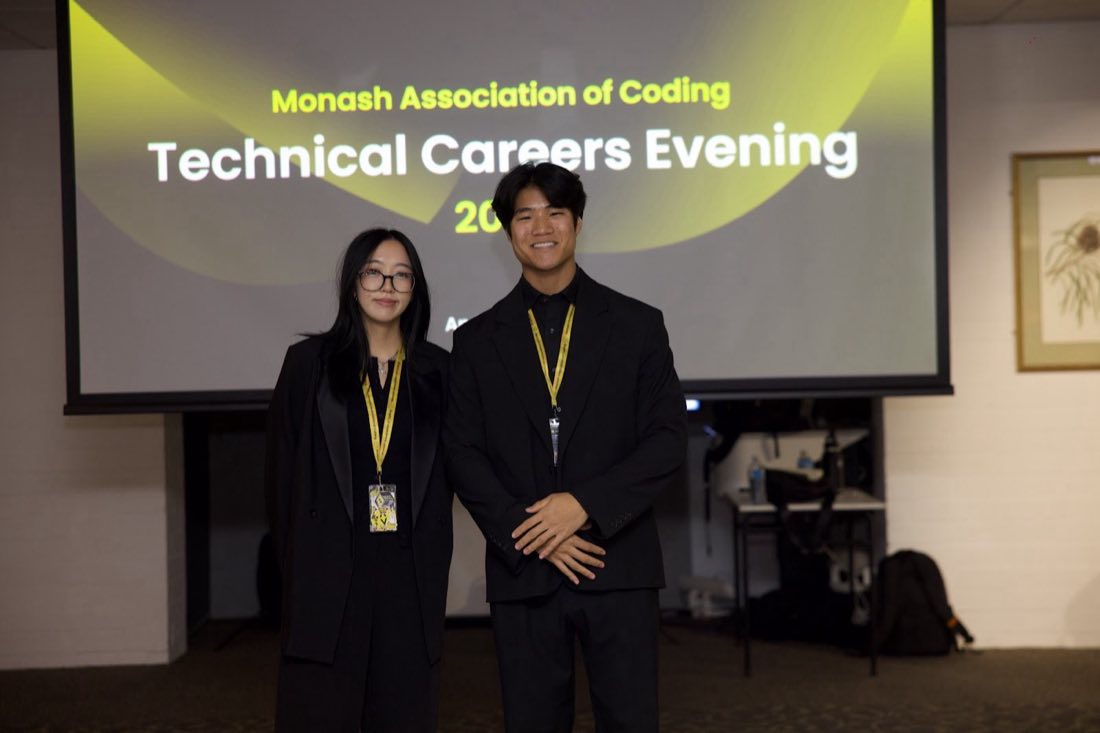
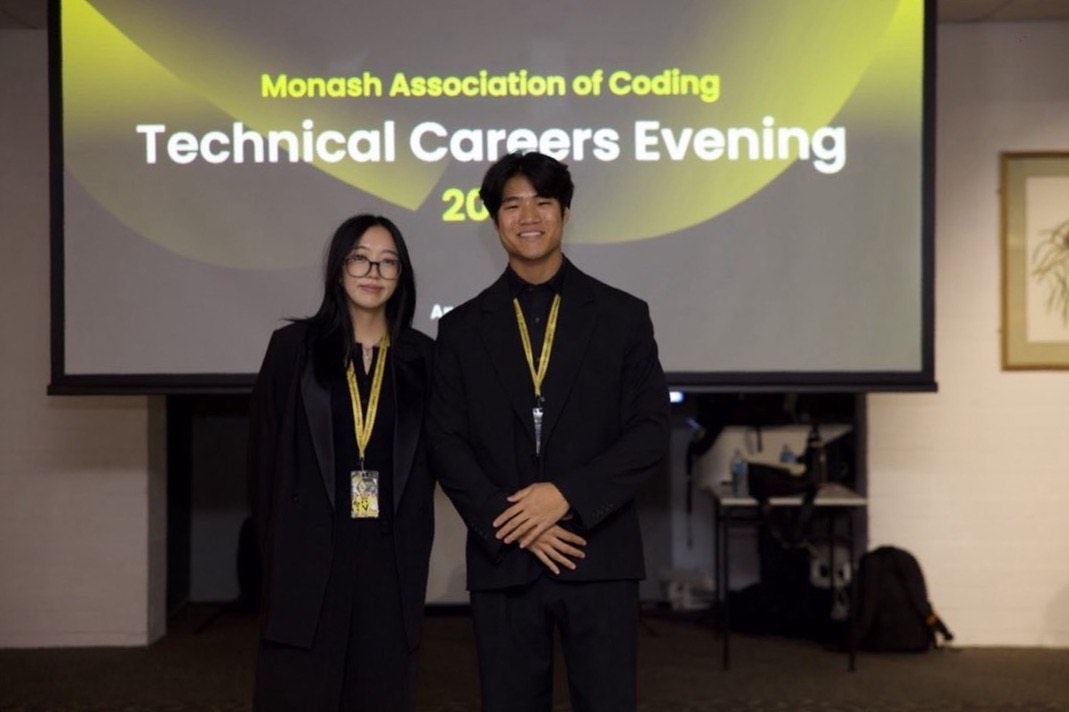
fix(dragon): drop the AGM photo and straighten the careers evening shot

diff --git a/dragon/isles.js b/dragon/isles.js
@@ -3112,7 +3112,7 @@ const PHOTO_PICKS = {
   "atlassian": [P("atlassian", "00_2024-11-18", "2024-11-18", 1200, 1600), P("atlassian", "gp_2024-11-19", "2024-11-19", 825, 1100), P("atlassian", "gp_2024-11-22", "2024-11-22", 825, 1100), P("atlassian", "04_2024-11-29", "2024-11-29", 1200, 1600)],
   "culture-amp": [P("culture-amp", "02_2025-12-02", "2025-12-02", 1200, 1600), P("culture-amp", "00_2025-11-24", "2025-11-24", 1600, 1200), P("culture-amp", "03_2025-12-02", "2025-12-02", 1200, 1600)],
   "monash-mac": [P("monash-mac", "gp_2023-04-20", "2023-04-20", 1100, 781), P("monash-mac", "01_2023-05-04", "2023-05-04", 1600, 900), P("monash-mac", "gp_2023-07-07", "2023-07-07", 1100, 825), P("monash-mac", "gp_2023-09-14", "2023-09-14", 1100, 825)],
-  "leading-mac": [P("leading-mac", "gp_2025-02-27", "2025-02-27", 1100, 618, "40% 50%"), P("leading-mac", "gp_2025-04-09", "2025-04-09", 1100, 733), P("leading-mac", "09_2025-04-09", "2025-04-09", 1600, 1067, "58% 50%"), P("leading-mac", "13_2025-09-23", "2025-09-23", 1200, 1600)],
+  "leading-mac": [P("leading-mac", "gp_2025-02-27", "2025-02-27", 1100, 618, "40% 50%"), P("leading-mac", "gp_2025-04-09", "2025-04-09", 1069, 712, "32% 50%"), P("leading-mac", "09_2025-04-09", "2025-04-09", 1600, 1067, "58% 50%")],
 };
 function chapterHTML(c) {
   const stats = c.stats?.length && !HIDE_STATS.has(c.id) ? `<div class="stats">${c.stats.map(([b, s]) => `<div class="stat"><b>${esc(b)}</b><span>${esc(s)}</span></div>`).join("")}</div>` : "";
